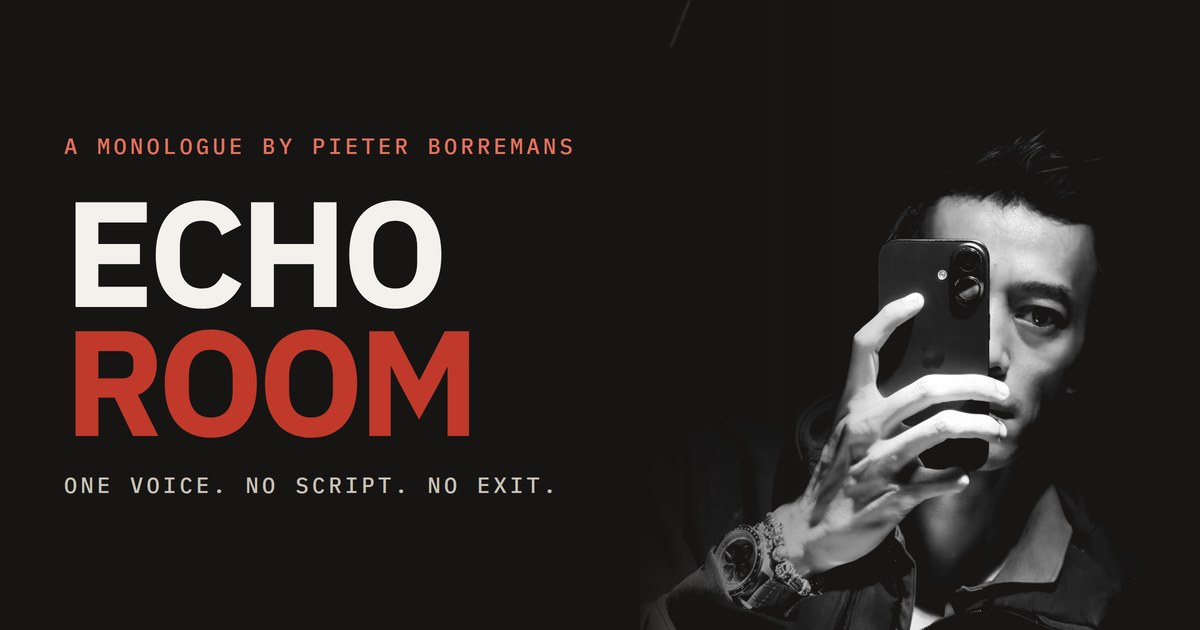
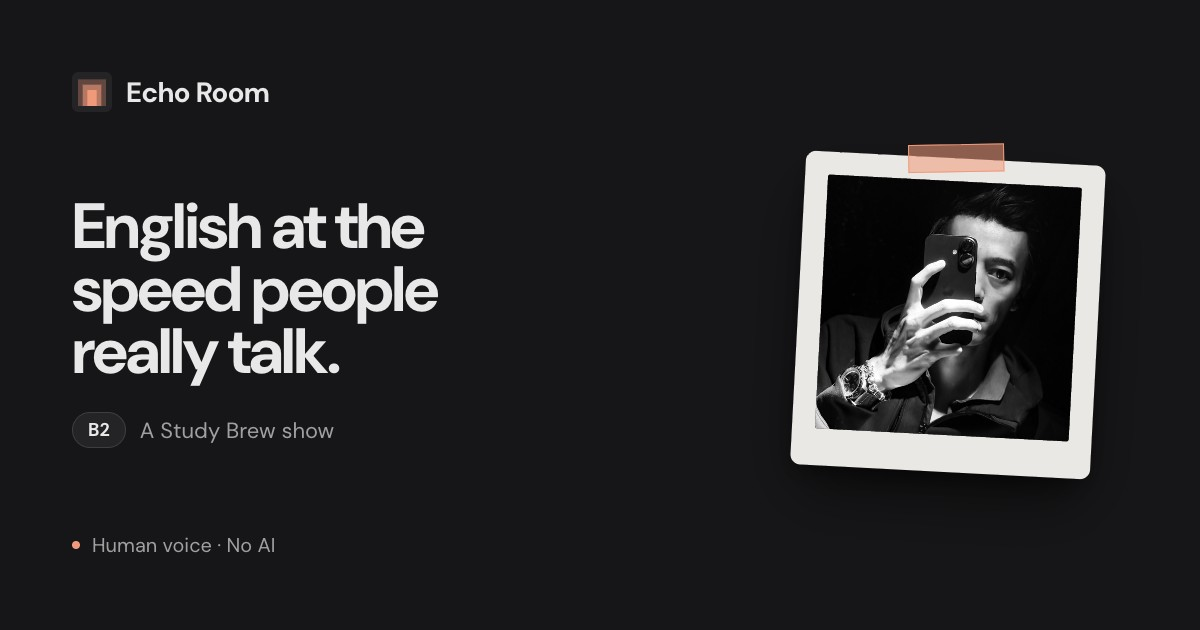
New brand share image, Topics description
Open Graph and Twitter image rebuilt in the Study Brew style with new
alt text. Topics metadata and intro now describe the ordinary-life
topics in clear B2 English.

diff --git a/src/app/topics/page.tsx b/src/app/topics/page.tsx
@@ -4,20 +4,28 @@ import Topics from "@/components/topics";
 
 export const revalidate = 3600;
 
+const TITLE = "Topics | Echo Room, a B2 English podcast";
+const DESCRIPTION =
+  "Every Echo Room topic comes from ordinary life: work, habits, cities, friendship, decisions, focus and moving. One topic per episode, in clear B2 English.";
+
 export const metadata: Metadata = {
-  title: "Topics | Echo Room, a B2 English podcast",
-  description:
-    "What Echo Room talks about. No fixed lineup: every episode pulls from whatever is on Pieter's mind that week, from building alone to moving countries.",
+  title: TITLE,
+  description: DESCRIPTION,
   alternates: {
     canonical: "https://www.echoroom.xyz/topics",
   },
   openGraph: {
-    title: "Topics | Echo Room, a B2 English podcast",
-    description:
-      "What Echo Room talks about. No fixed lineup: every episode pulls from whatever is on Pieter's mind that week, from building alone to moving countries.",
+    title: TITLE,
+    description: DESCRIPTION,
     url: "https://www.echoroom.xyz/topics",
     siteName: "Echo Room",
     type: "website",
+    images: [OG_IMAGE],
+  },
+  twitter: {
+    card: "summary_large_image",
+    title: TITLE,
+    description: DESCRIPTION,
     images: [OG_IMAGE],
   },
 };

diff --git a/src/components/topics.tsx b/src/components/topics.tsx
@@ -15,9 +15,9 @@ export default async function Topics() {
         <h1>Topics</h1>
 
         <p className="topics-lede">
-          There&apos;s no fixed lineup yet. Every episode pulls from
-          whatever&apos;s on my mind that week. Categories will show up
-          here once the first few episodes are out.
+          Every Echo Room topic comes from ordinary life: work, habits,
+          cities, friendship, decisions, focus and moving. One topic per
+          episode, in clear B2 English.
         </p>
 
         <div className="cta-row">

diff --git a/src/lib/og.ts b/src/lib/og.ts
@@ -5,5 +5,5 @@ export const OG_IMAGE = {
   url: "/opengraph-image.jpg",
   width: 1200,
   height: 630,
-  alt: "A B2 English podcast about ordinary life, spoken clearly at a natural pace by a non-native speaker. Part of Study Brew.",
+  alt: "Echo Room, a B2 English podcast by Study Brew: English at the speed people really talk.",
 };
